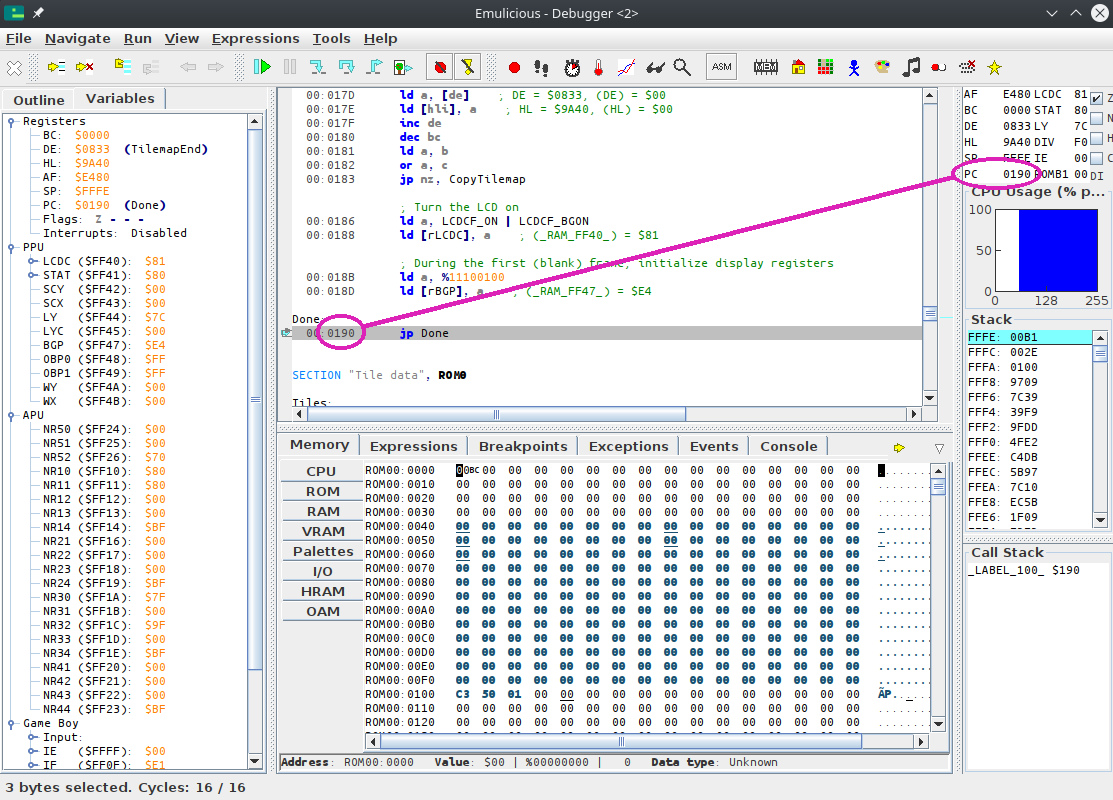
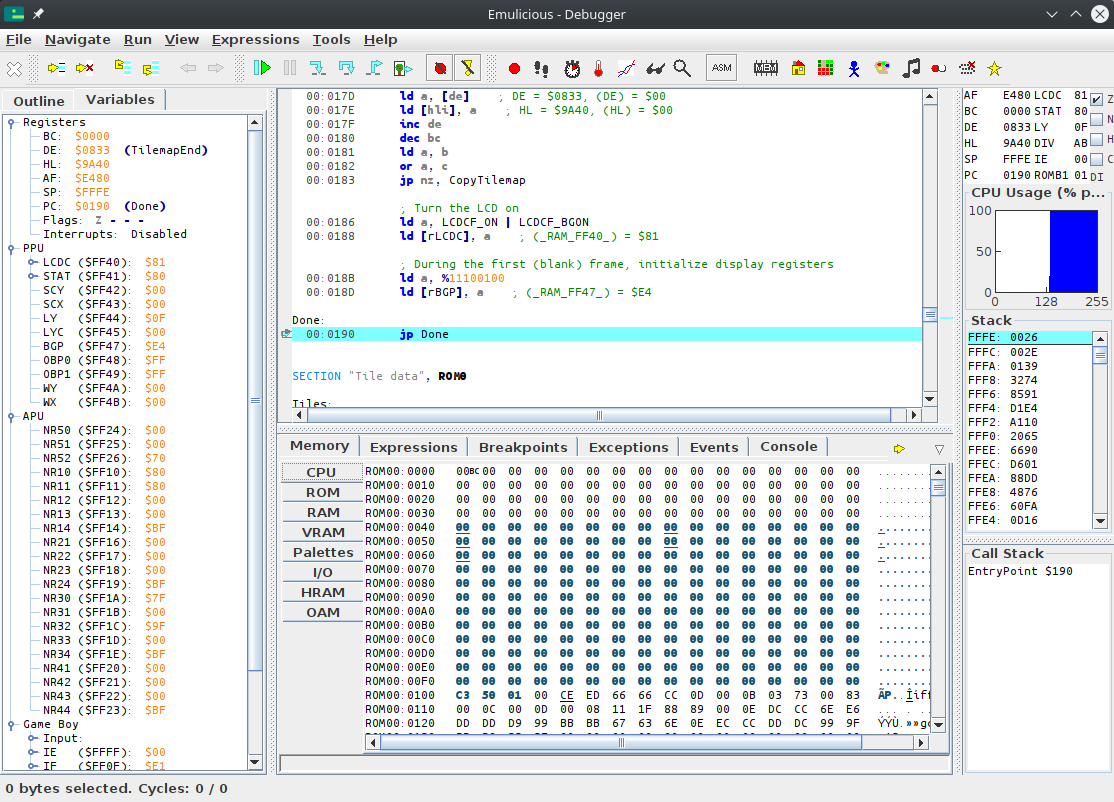
On tracing.md, remove image overlays, and use 'Step Into' over 'Trace'

diff --git a/src/part1/tracing.md b/src/part1/tracing.md
@@ -32,7 +32,7 @@ When looking for a ROM's sym file, Emulicious takes the ROM's file name, strips 
 
 ## Stepping
 
-When pausing execution, the debugger will automatically focus on the instruction the CPU is about to execute, as indicated by the line highlighted in grey.
+When pausing execution, the debugger will automatically focus on the instruction the CPU is about to execute, as indicated by the line highlighted in blue.
 ![Screenshot of the debugger showing that the highlighted line corresponds to PC](../assets/img/pc.png)
 
 ::: tip:ℹ
@@ -48,11 +48,11 @@ The blue line should automatically move to address $0100[^boot_addr], and now we
 All the commands for that are in the "Run" menu.
 
 - "Run" simply unpauses the emulator. Clicking on the screen also does the same.
-- "Trace" (more commonly known as "Step Into") and "Step Over" advance the emulator by one instruction.
-They only really differ on the `call` instruction and interrupts, neither of which we are using here, so we will use "Trace".
+- "Step Into" and "Step Over" advance the emulator by one instruction.
+They only really differ on the `call` instruction and interrupts, neither of which we are using here, so we will use "Step Into".
 - The other options are not relevant for now.
 
-We will have to "Trace" a bunch of times, so it's a good idea to use the key shortcut.
+We will have to "Step Into" a bunch of times, so it's a good idea to use the key shortcut.
 If we press <kbd><kbd>F5</kbd></kbd> once, the `jp EntryPoint` is executed.
 And if we press it a few more times, can see the instructions being executed, one by one!
 
